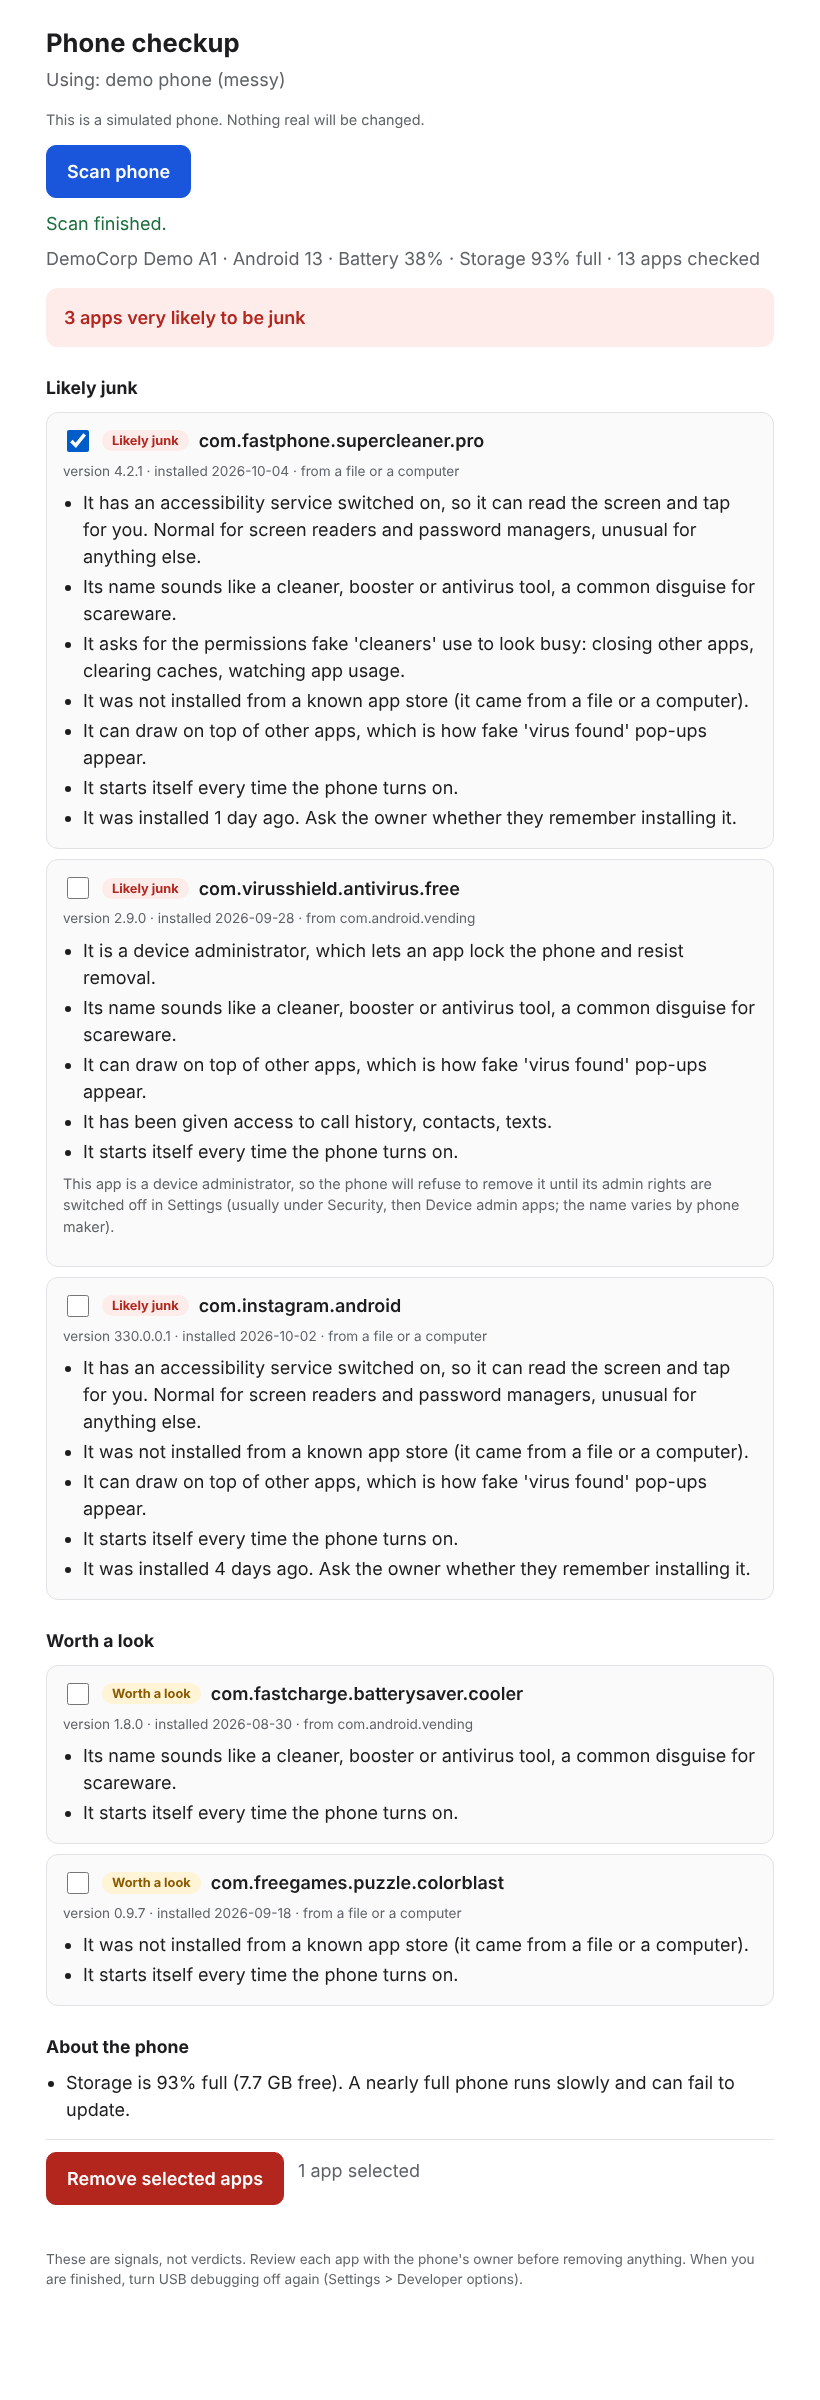
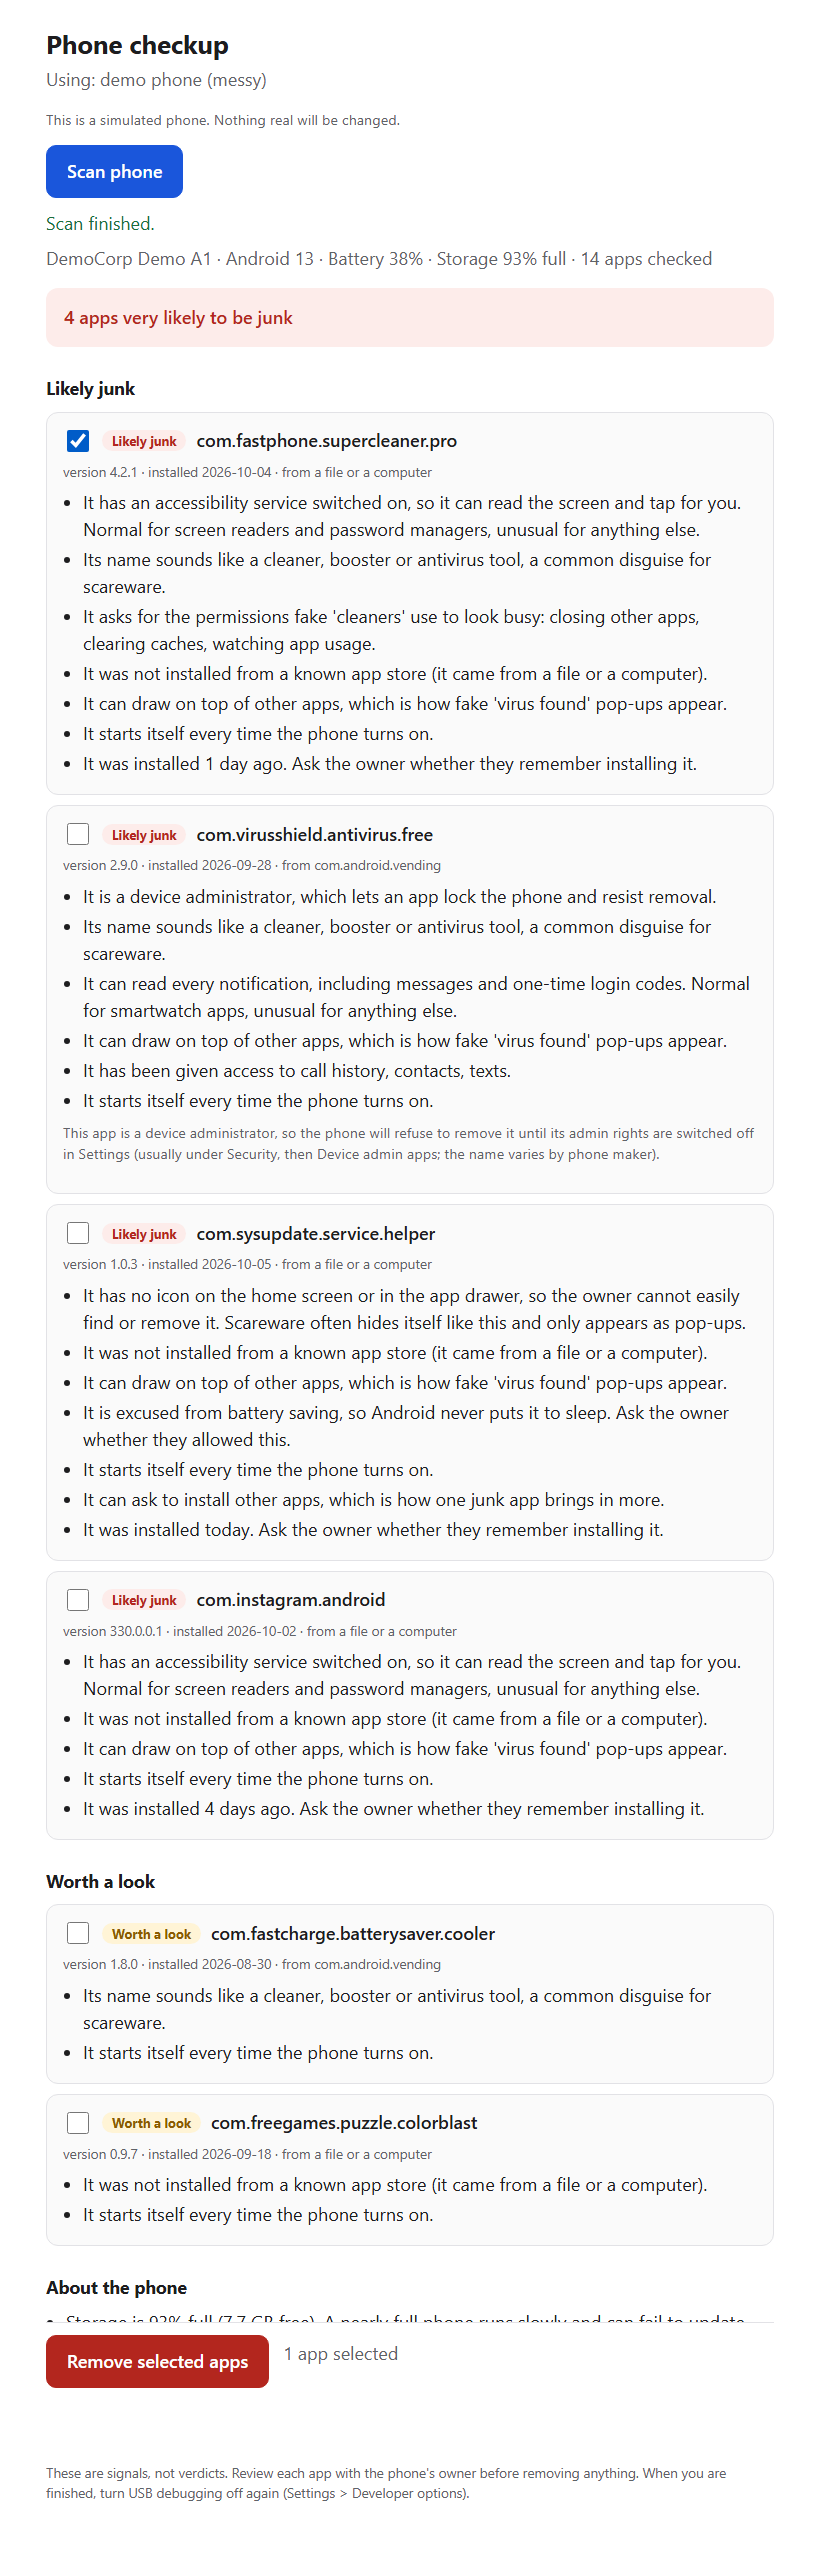
Document history, diff and the new rules; refresh screenshot
README: CI and typing badges, the new rules, a "Keeping a history"
section (what is and isn't stored), diff usage, updated architecture and
testing instructions. DECISIONS: why unknown readings are never treated as
suspicious, the history design (opt-in, minimal, migrated schema, CSV
formula escaping), and the CI matrix. Screenshot regenerated from the
updated demo phone; browser test counts updated to match.

Changed region(s): [[0.061, 0.0, 0.9146, 0.9688], [0.5488, 0.0938, 0.7317, 0.125], [0.7622, 0.0938, 0.8841, 0.125]]

diff --git a/tests/test_browser.py b/tests/test_browser.py
@@ -111,8 +111,8 @@ def test_confirmed_removal_updates_the_page(messy_page):
     messy_page.wait_for_selector("#results li")
     assert "com.fastphone.supercleaner.pro" in seen[0] and "Remove 1 app" in seen[0]
     assert messy_page.inner_text("#results li") == "Removed com.fastphone.supercleaner.pro"
-    assert messy_page.inner_text(".banner") == "2 apps very likely to be junk"
-    assert messy_page.locator("#findings .card").count() == 4
+    assert messy_page.inner_text(".banner") == "3 apps very likely to be junk"
+    assert messy_page.locator("#findings .card").count() == 5
     assert messy_page.locator("#findings input:checked").count() == 0
 
 

diff --git a/README.md b/README.md
@@ -1,5 +1,10 @@
 # phonecheck
 
+[![CI](https://github.com/alexkiladzenyc/phone-checkup/actions/workflows/ci.yml/badge.svg)](https://github.com/alexkiladzenyc/phone-checkup/actions/workflows/ci.yml)
+![Python 3.10–3.13](https://img.shields.io/badge/python-3.10%E2%80%933.13-blue)
+![Dependencies: none](https://img.shields.io/badge/runtime%20dependencies-none-brightgreen)
+![Typed: mypy strict](https://img.shields.io/badge/typed-mypy%20strict-informational)
+
 A read-only junk-app and health checkup for Android phones, over USB. Plug a phone in, get a plain-English report of which apps look like scareware and why, and remove the ones you choose.
 
 ![The web interface after scanning the demo phone](docs/screenshot.png)
@@ -22,6 +27,8 @@ phonecheck scan --demo messy          # a synthetic phone full of junk
 phonecheck scan --demo clean          # a healthy one
 phonecheck remove --demo messy        # walk through the removal flow, safely simulated
 phonecheck serve --demo messy         # the same thing as a web page
+phonecheck scan --demo messy --save   # ...and keep a record (see "Keeping a history")
+phonecheck history stats              # which junk apps keep turning up
 ```
 
 The demo phones are invented ("DemoCorp"), generated by `tools/make_demo_phones.py`, and contain no real data.
@@ -77,6 +84,43 @@ Two details worth knowing:
 
 - Well-known apps (`data/trusted_apps.txt`) are skipped, **but only when installed from a real store**. A sideloaded app that merely reuses a famous package name is still scored. The demo phone includes one.
 - `data/known_junk.txt` ships empty on purpose. It is where in-person knowledge goes: when you meet a new fake cleaner, add its package name and every future scan flags it. Pass extra lists with `--junk-list` / `--trusted-list`.
+- "The phone wouldn't say" is never treated as suspicious. If a phone's launcher output can't be parsed, every app's icon status is *unknown* rather than *hidden*, so one odd manufacturer can't flag every app at once.
+
+## Keeping a history
+
+A shop sees the same junk over and over. Add `--save` to `scan`, `remove` or `serve` and each scan is logged to a local SQLite database (your per-user data folder by default; `--db FILE` or `PHONECHECK_DB` to choose).
+
+```bash
+phonecheck history                    # recent scans: phone, apps checked, how many flagged
+phonecheck history stats --since 2026-10-01
+phonecheck history export --out flagged.csv
+```
+
+Example `stats` output (illustrative numbers):
+
+```
+Most often flagged apps (42 saved scans, since 2026-10-01):
+
+  app                                       scans  likely    avg  last seen
+  com.fastphone.supercleaner.pro               11      11   14.2  2026-10-09
+  com.virusshield.antivirus.free                7       7   15.0  2026-10-08
+  ...
+Rules behind the flags:
+  not_from_store               31  (74% of flagged apps)
+  overlay                      26  (62% of flagged apps)
+```
+
+The stats answer two questions: which packages belong in your `--junk-list`, and which rules actually do the work (useful evidence for tuning weights).
+
+**What is stored:** the phone's make, model and Android version, how many apps were checked, and only the *flagged* apps with their score and rules. Never the full app list, a serial number, or anything about the owner; a test checks the schema for it. The CSV export neutralises spreadsheet formulas, since model names come from the phone.
+
+**Before and after.** Save a JSON report at drop-off and another at pick-up, then compare them:
+
+```bash
+phonecheck scan --format json --out before.json
+phonecheck diff before.json after.json            # new, gone, got worse, improved, with the signals that changed
+phonecheck diff before.json after.json --fail-on-new   # exit 1 if anything is new or worse (for scripts)
+```
 
 ## Safety
 
@@ -93,9 +137,10 @@ Two details worth knowing:
                │                      │
                └──────────┬───────────┘
                           ▼
-   collector.py ──► rules.py ──► report.py              (read, decide, explain)
-        │                │
-        ▼                └──► removal.py                (the only code that changes a phone)
+   collector.py ──► rules.py ──► report.py ──► compare.py   (read, decide, explain, compare)
+        │                │            │
+        │                │            └──► history.py       (optional SQLite log of flagged apps)
+        ▼                └──► removal.py                    (the only code that changes a phone)
    parsers.py
         │
         ▼
@@ -112,21 +157,28 @@ src/phonecheck/
   rules.py      the rule engine; thresholds; device-level notes
   report.py     text / HTML / JSON output (HTML is escaped, script-free)
   removal.py    guarded uninstall
-  cli.py        commands: devices, scan, remove, capture, serve
+  history.py    SQLite scan log: versioned schema, stats, CSV export
+  compare.py    diff two JSON reports (validated as untrusted input)
+  cli.py        commands: devices, scan, remove, capture, serve, diff, history
   server.py     localhost web server and its defences
   web/          the single-page interface (plain HTML, CSS, JS; no build step)
   data/         trusted-apps and known-junk lists
   demo_data/    the two synthetic demo phones
 tools/          regenerate the demo phones and the screenshot
-tests/          270+ tests
+tests/          340 tests
+.github/        CI: lint + strict typing, tests on 3 OSes x 4 Pythons, browser tests
 ```
 
 ## Testing
 
 ```bash
 pip install -e ".[dev]"
-pytest
+pytest --cov          # ~95% line and branch coverage
+ruff check            # lint, including bandit security rules
+mypy                  # --strict on src/
 ```
+
+CI runs all three on every push and pull request, with the test suite on Linux, Windows and macOS across Python 3.10 to 3.13.
 
 The suite covers the parsers (including malformed input), the shell-argument allowlist, every rule and the scoring thresholds, trust/spoofing behaviour, removal refusals, all CLI paths, report escaping, and every web security check over real HTTP. Real-browser tests (Playwright; they skip themselves if it isn't installed: `pip install -e ".[e2e]" && playwright install chromium`) click through the page and confirm that hostile text from a phone is displayed rather than executed.
 
@@ -146,7 +198,7 @@ So far it has been verified against recorded and synthetic phone output. The par
 
 ## Ideas for next
 
-Show app names and icons; add rules from real-world cases as they turn up; ship a single-file installer for Windows and macOS; add a CSV export for tracking which junk apps appear most often.
+Show app names and icons; add rules from real-world cases as they turn up (the `history stats` rule breakdown is the evidence for that); ship a single-file installer for Windows and macOS; a history page in the web interface.
 
 ## AI assistance
 

diff --git a/DECISIONS.md b/DECISIONS.md
@@ -28,11 +28,11 @@ Skipping well-known apps avoids false alarms on WhatsApp, Spotify and so on, but
 
 ## 6. One small device interface, three implementations
 
-`shell(*args)` and `uninstall(package)`. A real phone, a replay of recorded text, and a recorder that wraps another device all satisfy it. This is what makes 270+ tests, a hardware-free demo, and `capture` (turn a real phone's output into a new test fixture) possible without mocking `subprocess` everywhere. The demo phones are produced by pushing scripted answers through the real collector and recorder, and a test fails if the committed copies drift.
+`shell(*args)` and `uninstall(package)`. A real phone, a replay of recorded text, and a recorder that wraps another device all satisfy it. This is what makes 340 tests, a hardware-free demo, and `capture` (turn a real phone's output into a new test fixture) possible without mocking `subprocess` everywhere. The demo phones are produced by pushing scripted answers through the real collector and recorder, and a test fails if the committed copies drift.
 
 ## 7. Standard library only
 
-No runtime dependencies. It installs anywhere Python 3.10+ runs, there is nothing to audit or update, and the web server is `http.server` plus roughly 230 lines. The only third-party package anywhere is Playwright, as an optional test tool.
+No runtime dependencies. It installs anywhere Python 3.10+ runs, there is nothing to audit or update, and the web server is `http.server` plus roughly 250 lines; the history store is the bundled `sqlite3`. Third-party packages appear only in development: pytest, ruff, mypy, and Playwright for the optional browser tests.
 **Trade-off:** more hand-written code than a framework would need. For three endpoints that is cheaper than a dependency.
 
 ## 8. Untrusted text on both sides
@@ -46,6 +46,22 @@ A page on localhost that can uninstall apps is attractive to any website the use
 ## 10. Privacy by omission
 
 It only asks for what the rules need. It does not read contacts, messages, photos, accounts or identifiers, and reports and JSON contain none (a test checks this). The one risk left is `capture`, whose output lists every installed app, so it warns, and `.gitignore` excludes captures and generated reports.
+
+## 11. "Unknown" is not "suspicious"
+
+Some readings can fail or come back in a shape the parser doesn't recognise. Each one has a safe default: an unreadable accessibility or admin list means "nobody has it", and an unrecognised launcher answer means every app's icon status is *unknown* (`None`), not *hidden*. An empty launcher list is treated the same way, because every phone has at least Settings in its launcher.
+**Why:** `hidden_icon` is worth 3 points. If a parse failure counted as "hidden", one manufacturer's output format would flag every app on the phone at once, and the person at the counter would stop trusting the tool. A missed signal on an odd phone is cheaper than that.
+
+## 12. History is opt-in, local, and stores the minimum
+
+`--save` writes to a SQLite file on the same computer. Nothing is uploaded, and nothing is saved unless asked. A record holds the phone model and the *flagged* apps only, because that is all the stats need ("which junk keeps coming back", "which rules do the work"). Storing every installed app would turn a junk log into a log of what customers use.
+**Schema changes** are numbered migrations tracked with `PRAGMA user_version`, each applied in one transaction (version bump included). A database from a newer version is refused with a message rather than guessed at. A test injects a broken migration and checks that nothing half-applied is left behind.
+**Why SQLite rather than a JSON file:** the useful questions ("most flagged apps since the 1st", "share of flags each rule contributed to") are a `GROUP BY`. It ships with Python, so it adds no dependency.
+**Exported CSV** escapes cells starting with `=`, `+`, `-` or `@`, because model names and installers come from the phone and the file will be opened in a spreadsheet.
+
+## 13. Tooling as a guardrail
+
+CI runs ruff (including bandit's security rules), `mypy --strict`, and the tests on Linux, Windows and macOS for Python 3.10 to 3.13. Every lint exception is written next to the code or in `pyproject.toml` with a reason. Windows in the matrix earned its place by finding a real bug: the server answered rejected requests without reading their body, which Windows turns into a connection reset, so a browser saw a network error instead of the error message.
 
 ## Known weaknesses
 
